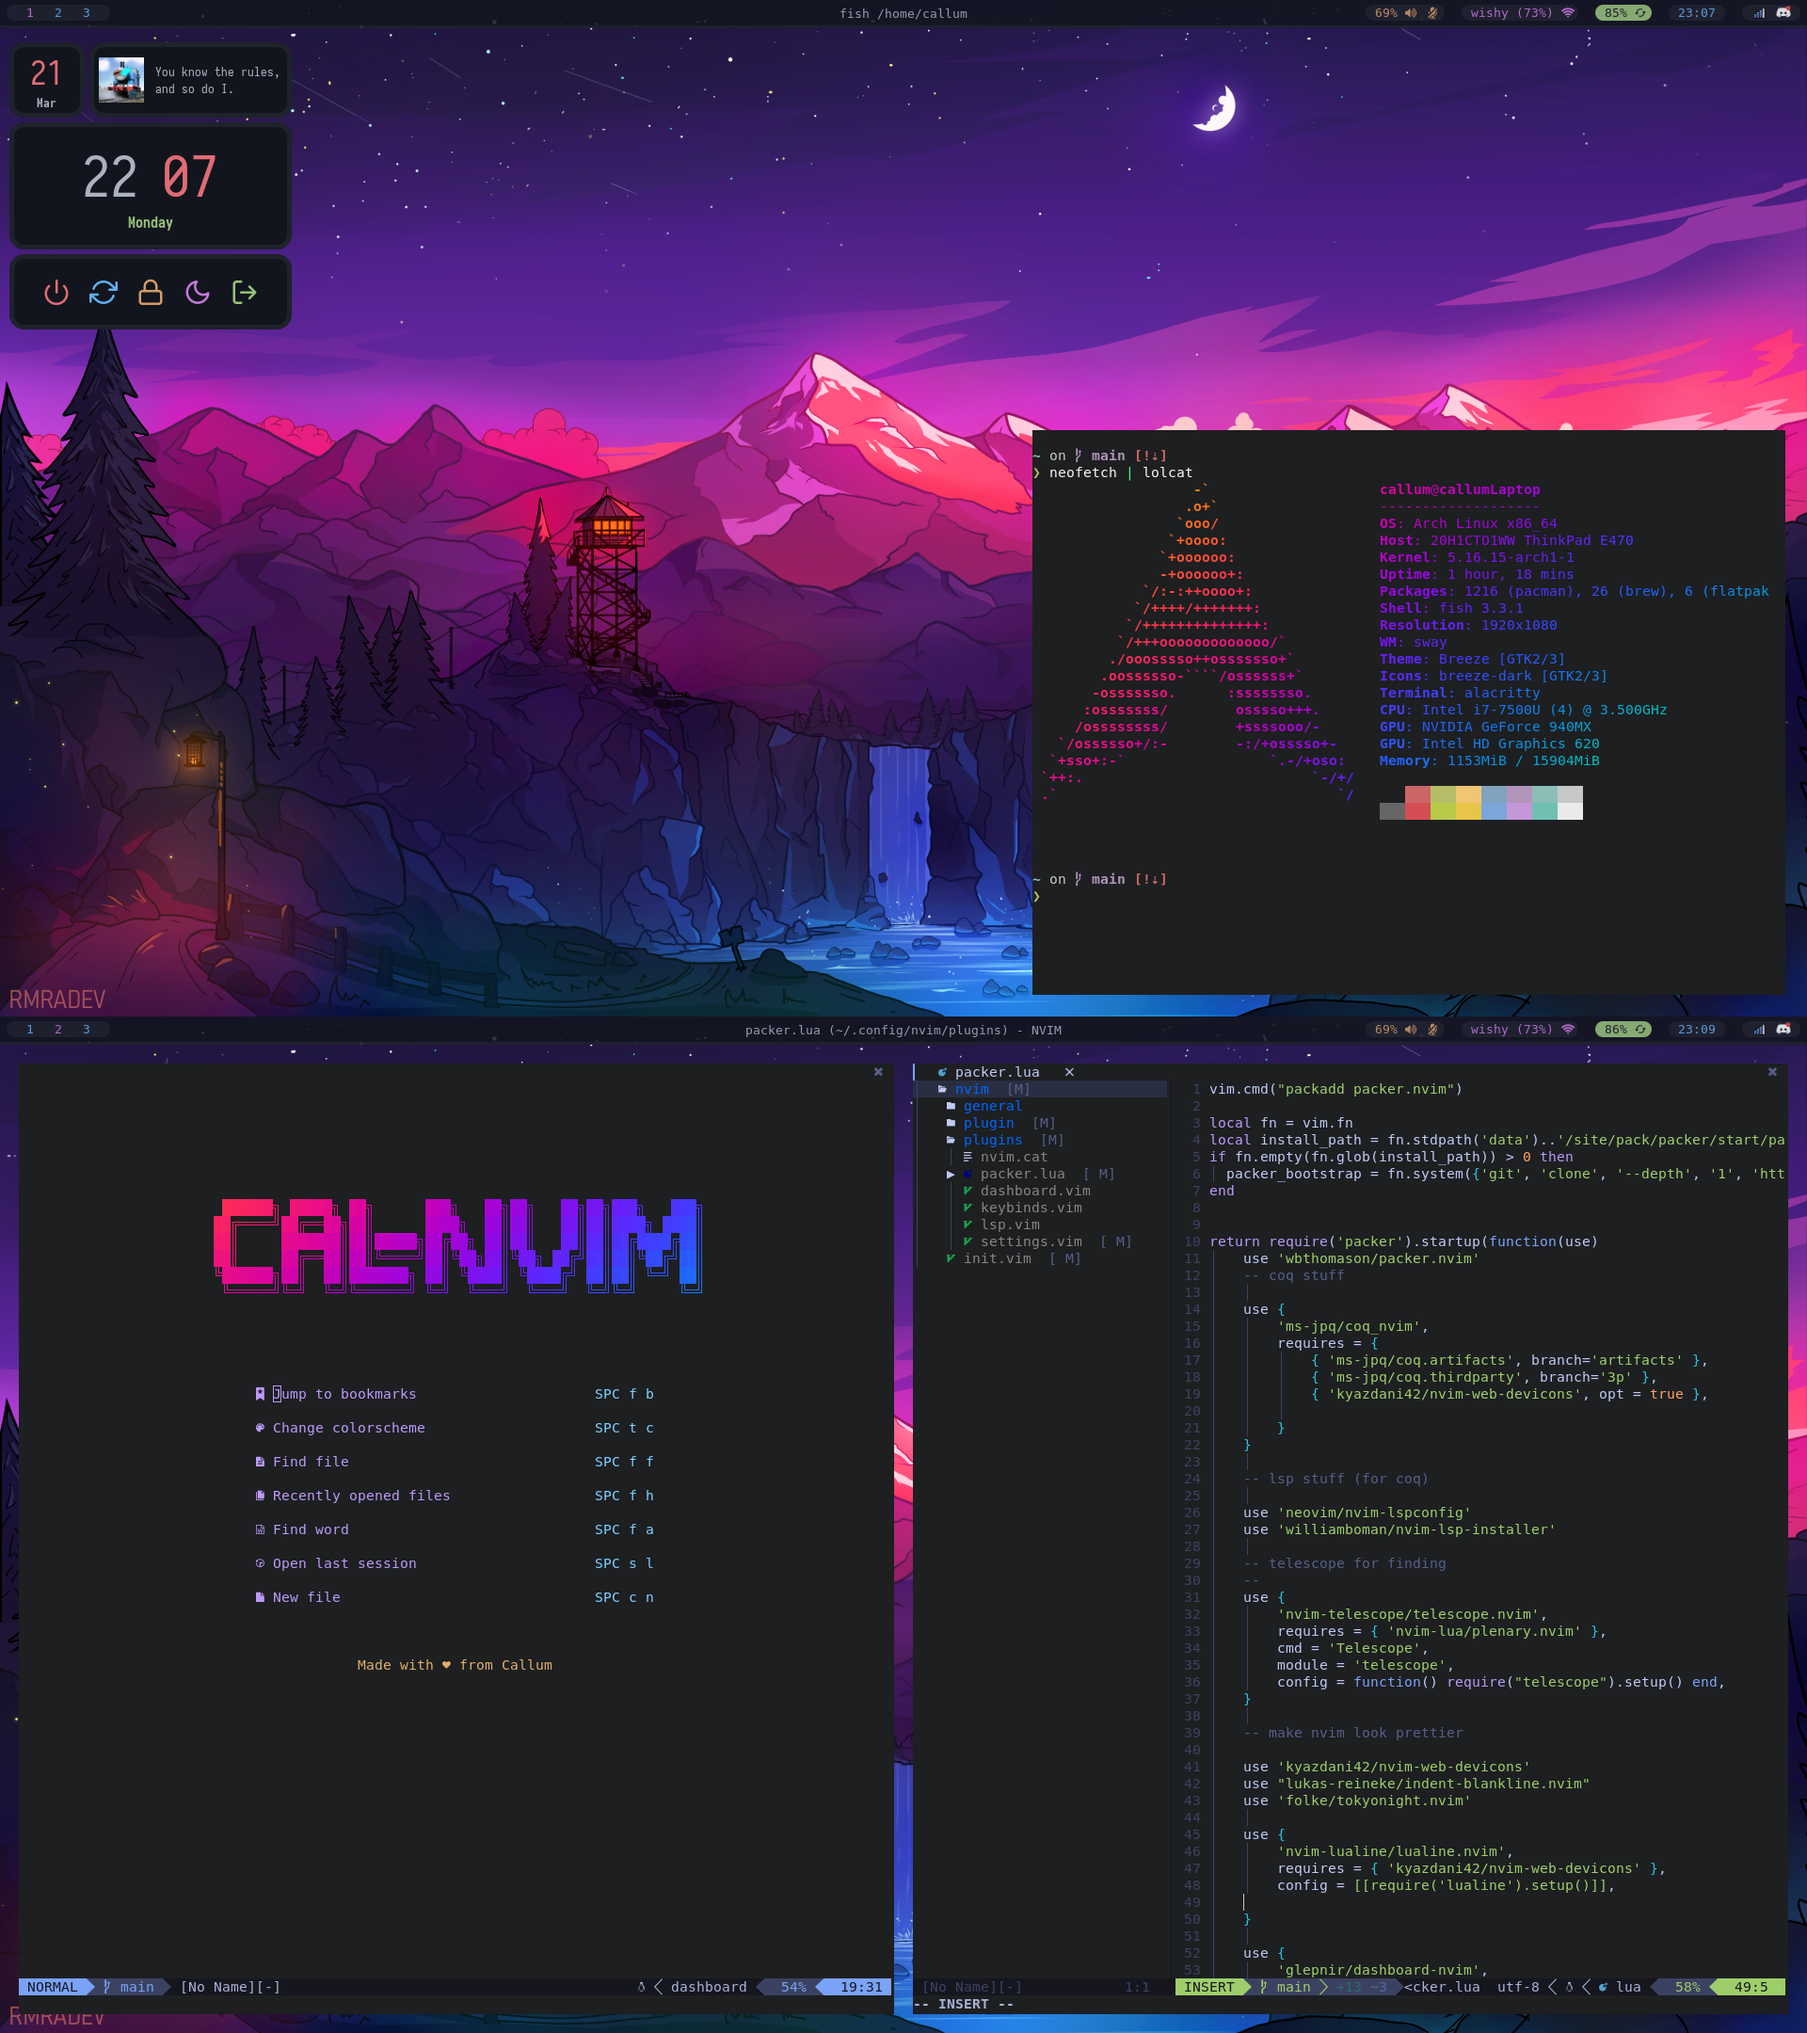
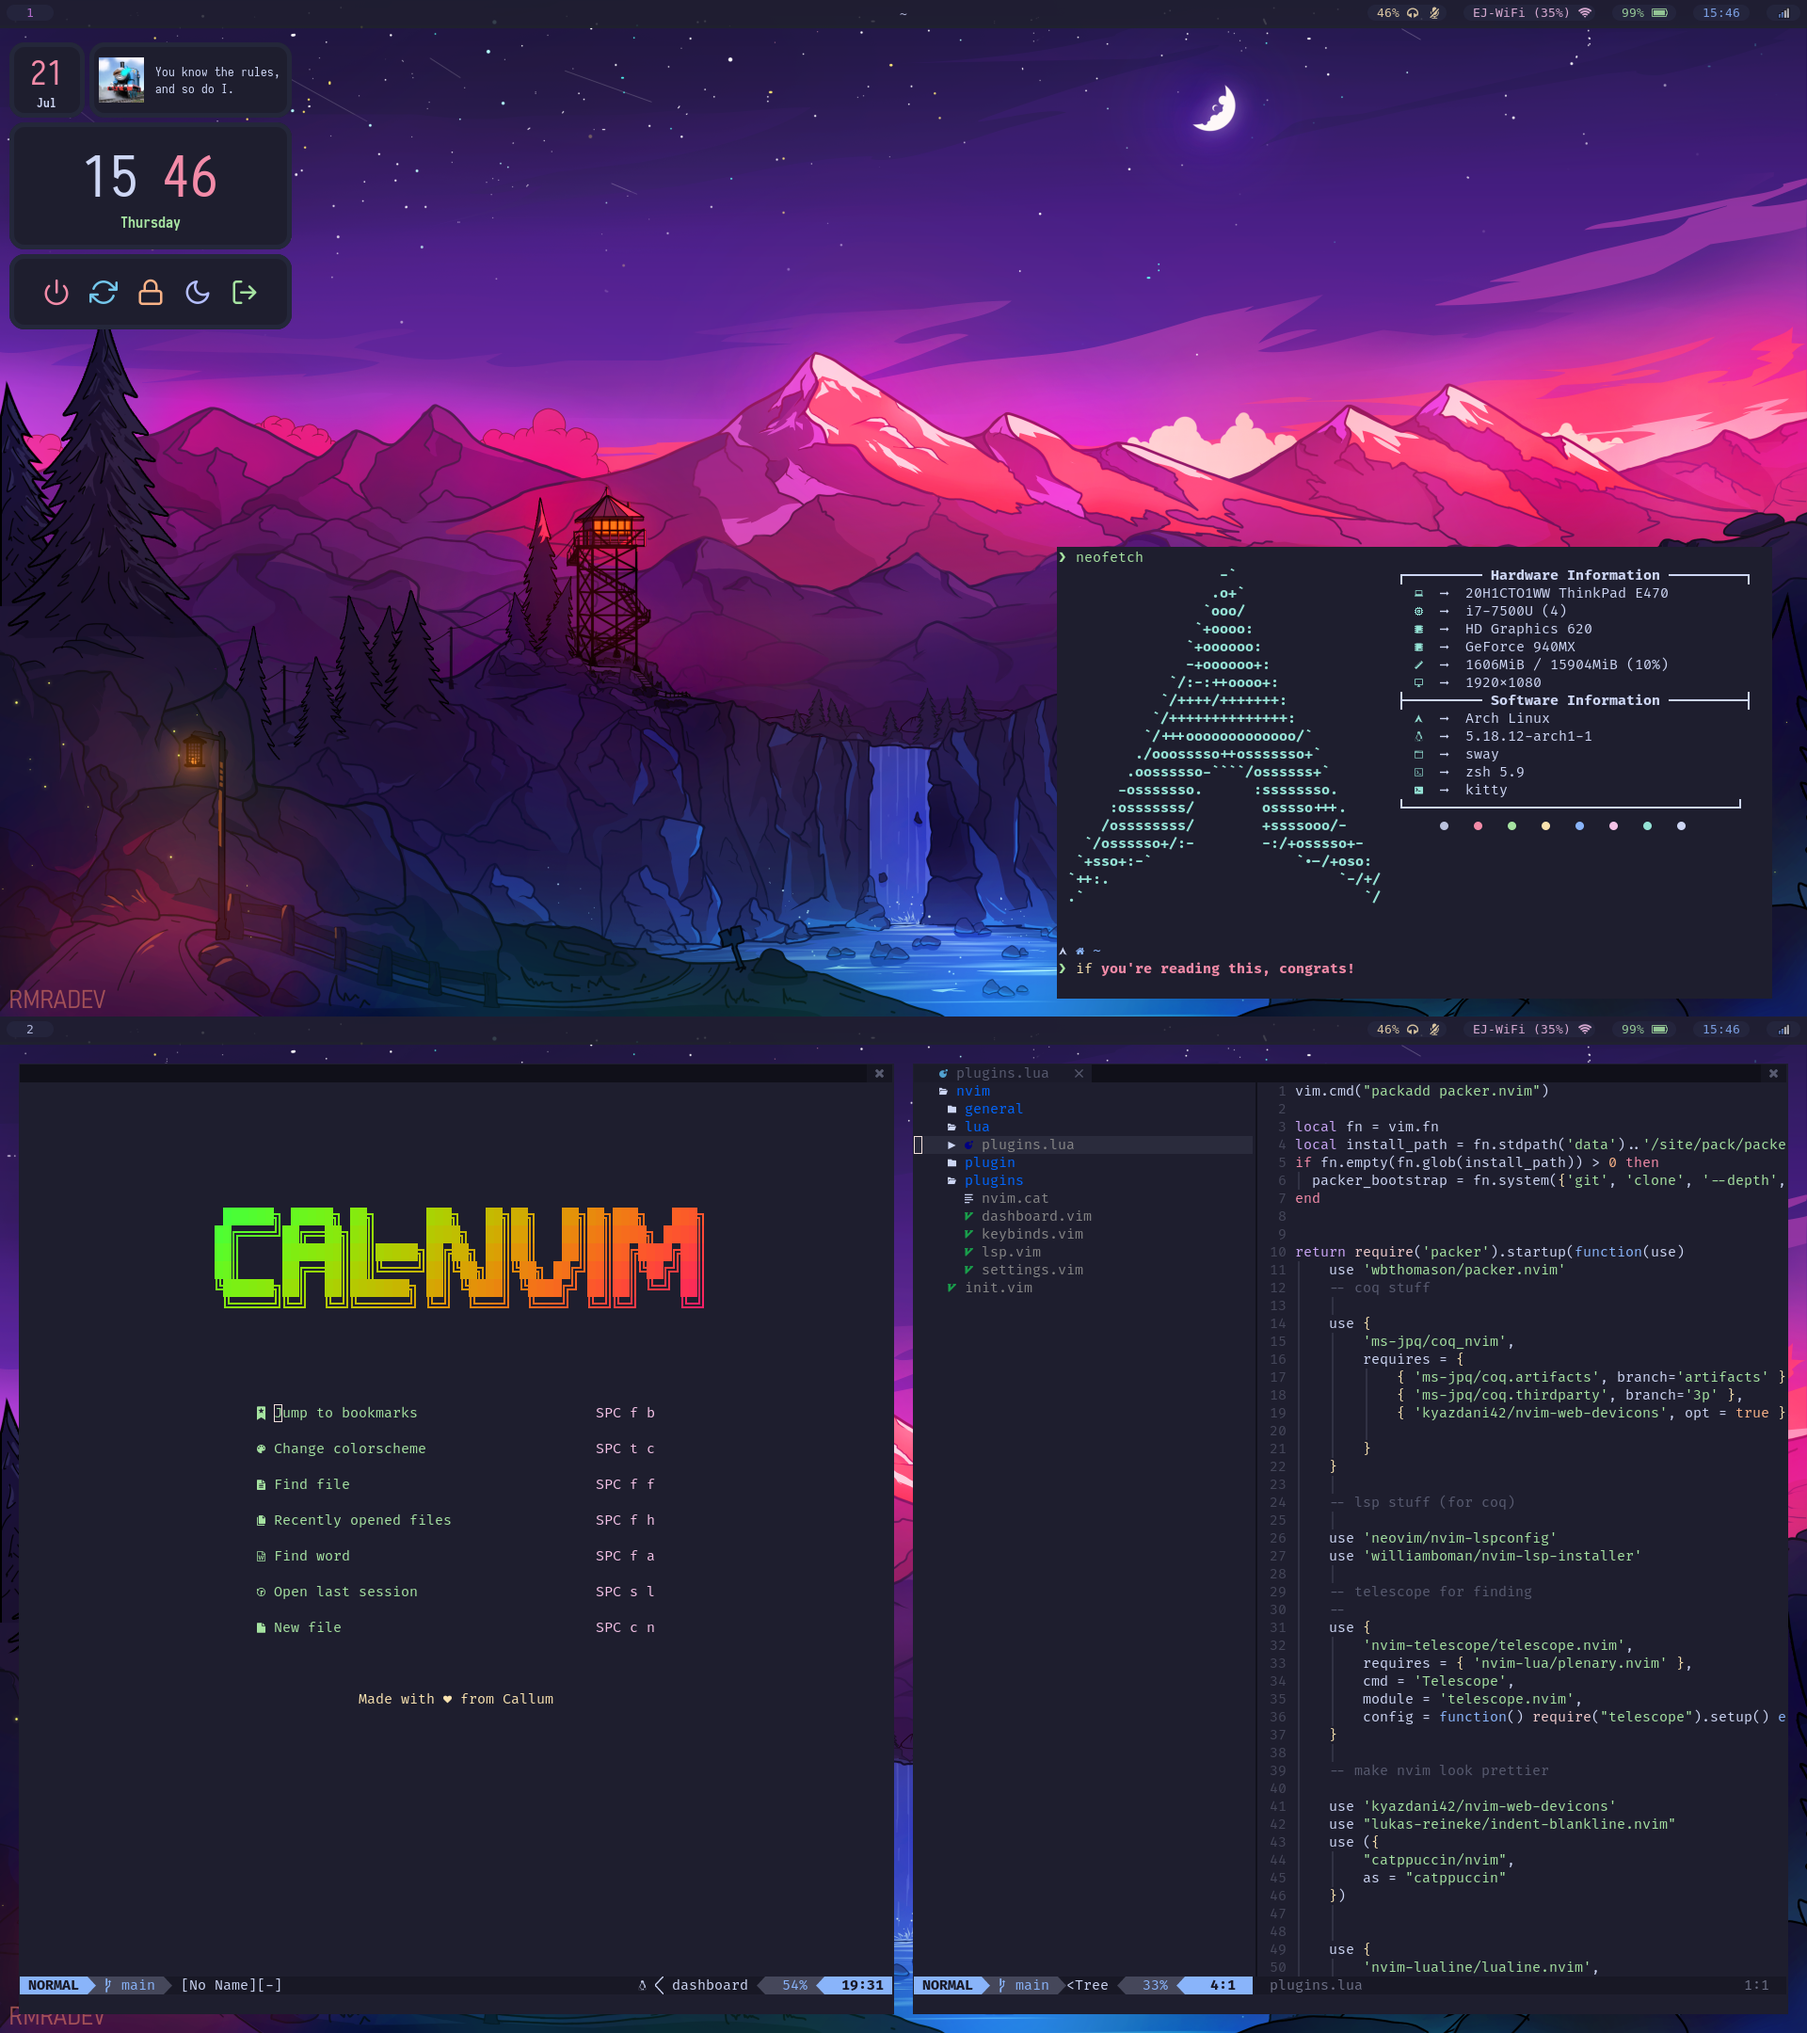
readme and image changes to reflect new version

diff --git a/README.md b/README.md
@@ -1,16 +1,20 @@
-# my personal dotfiles
+# my personal dotfiles version 2: catppuccin (mocha) edition!
 ![https://www.youtube.com/watch?v=dQw4w9WgXcQ](/.config/sway/linux-screenshot.png)
-hey. these are my personal dotfiles for my linux system. 
+hey. these are my personal dotfiles for my linux system, version 2! 
 they're probably buggy on your computer right now, but i will be making them better over time.
 here's some highlights.
-## NeoVim
+## neovim
 * lazy loading via [packer.nvim](https://github.com/wbthomason/packer.nvim)
 * code completion and snippets via [coq_nvim](https://github.com/ms-jpq/coq_nvim), with language server installation using [nvim-lsp-installer](https://github.com/williamboman/nvim-lsp-installer)
 * fuzzy finding via [telescope.nvim](https://github.com/nvim-telescope/telescope.nvim)
 * file tree using [chadtree](https://github.com/ms-jpq/chadtree)
 * [lualine.nvim](https://github.com/nvim-lualine/lualine.nvim), [dashboard-nvim](https://github.com/glepnir/dashboard-nvim), and [bufferline.nvim](https://github.com/akinsho/bufferline.nvim) to make the editor look pretty
 ## other
-* eww widget based on heavily modified code from [these dotfiles](https://github.com/n0tsteve/glorious-dots)
-* waybar with css stolen from somewhere on unixporn i cant remember
-* extremely minimal fish config using [starship prompt](https://github.com/starship/starship)
+* custom catppuccin css on eww and waybar
+* zsh config that uses zinit turbo and powerlevel10k for good speeds
 * sway config that's mostly unmodified except for some things
+* uses kitty and fira code nerd font for icons and ligatures
+## credits
+* eww widget based on modified code from [these dotfiles](https://github.com/n0tsteve/glorious-dots)
+* neofetch theme from this [repository](https://github.com/Chick2D/neofetch-themes)
+* official [catppuccin](https://github.com/catppuccin/catppuccin) ports used wherever possible
